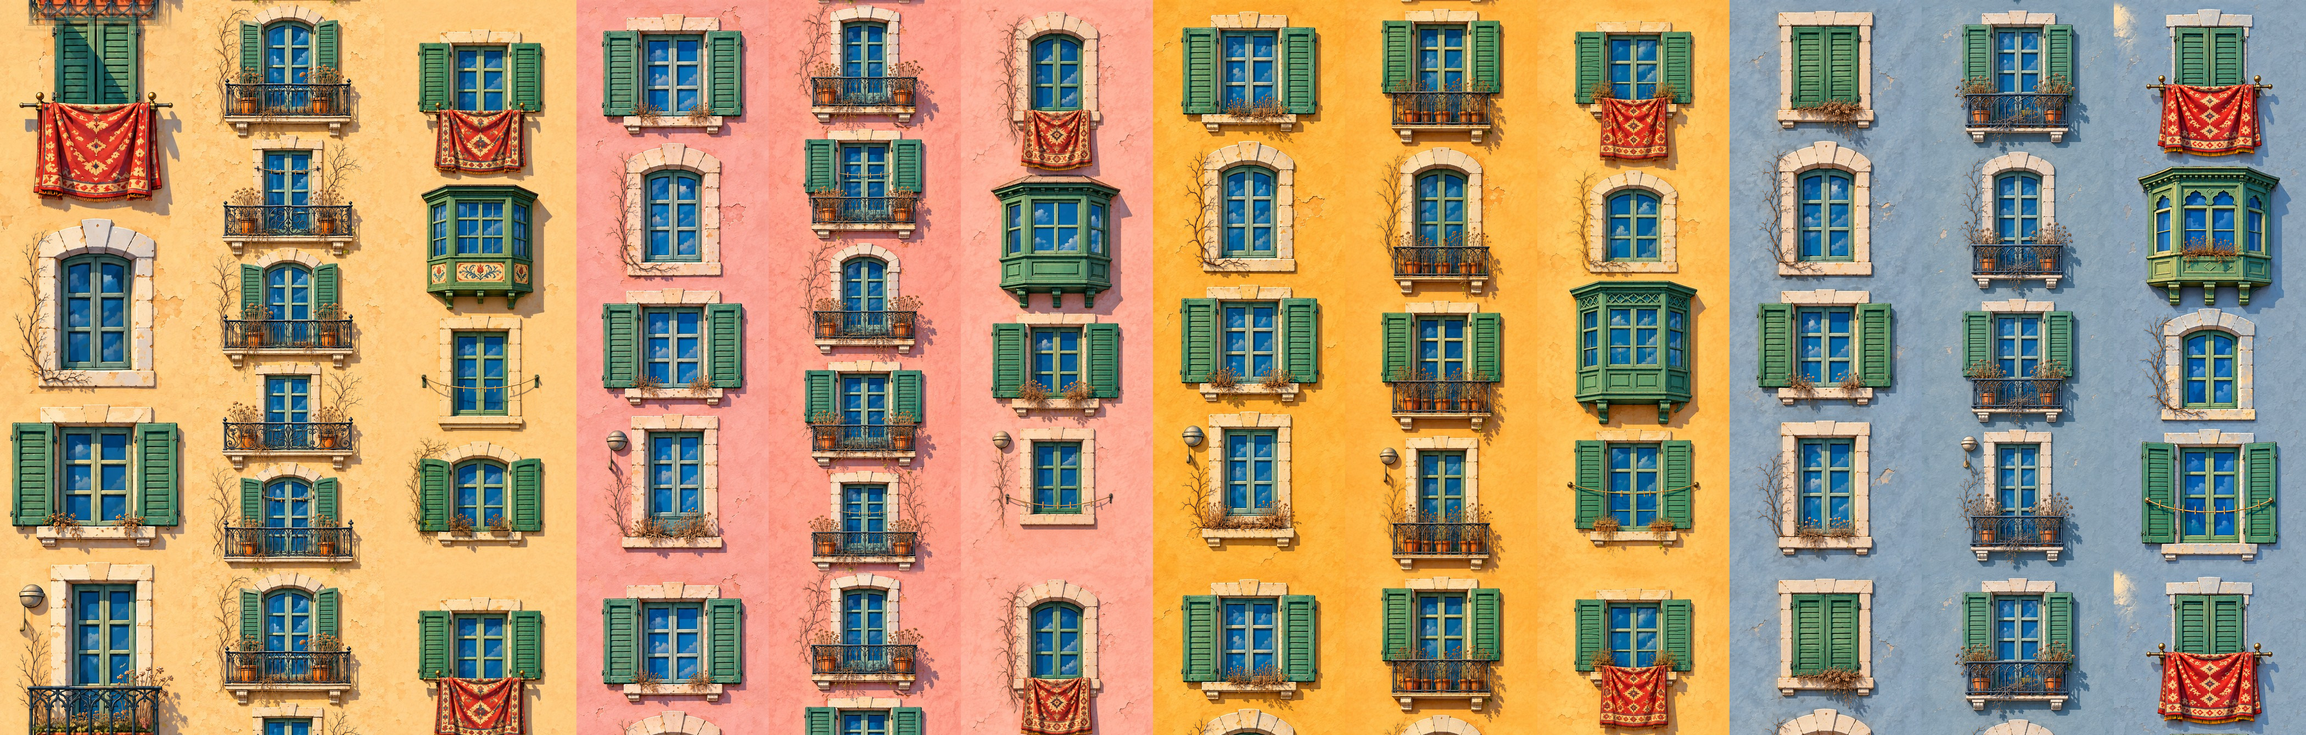
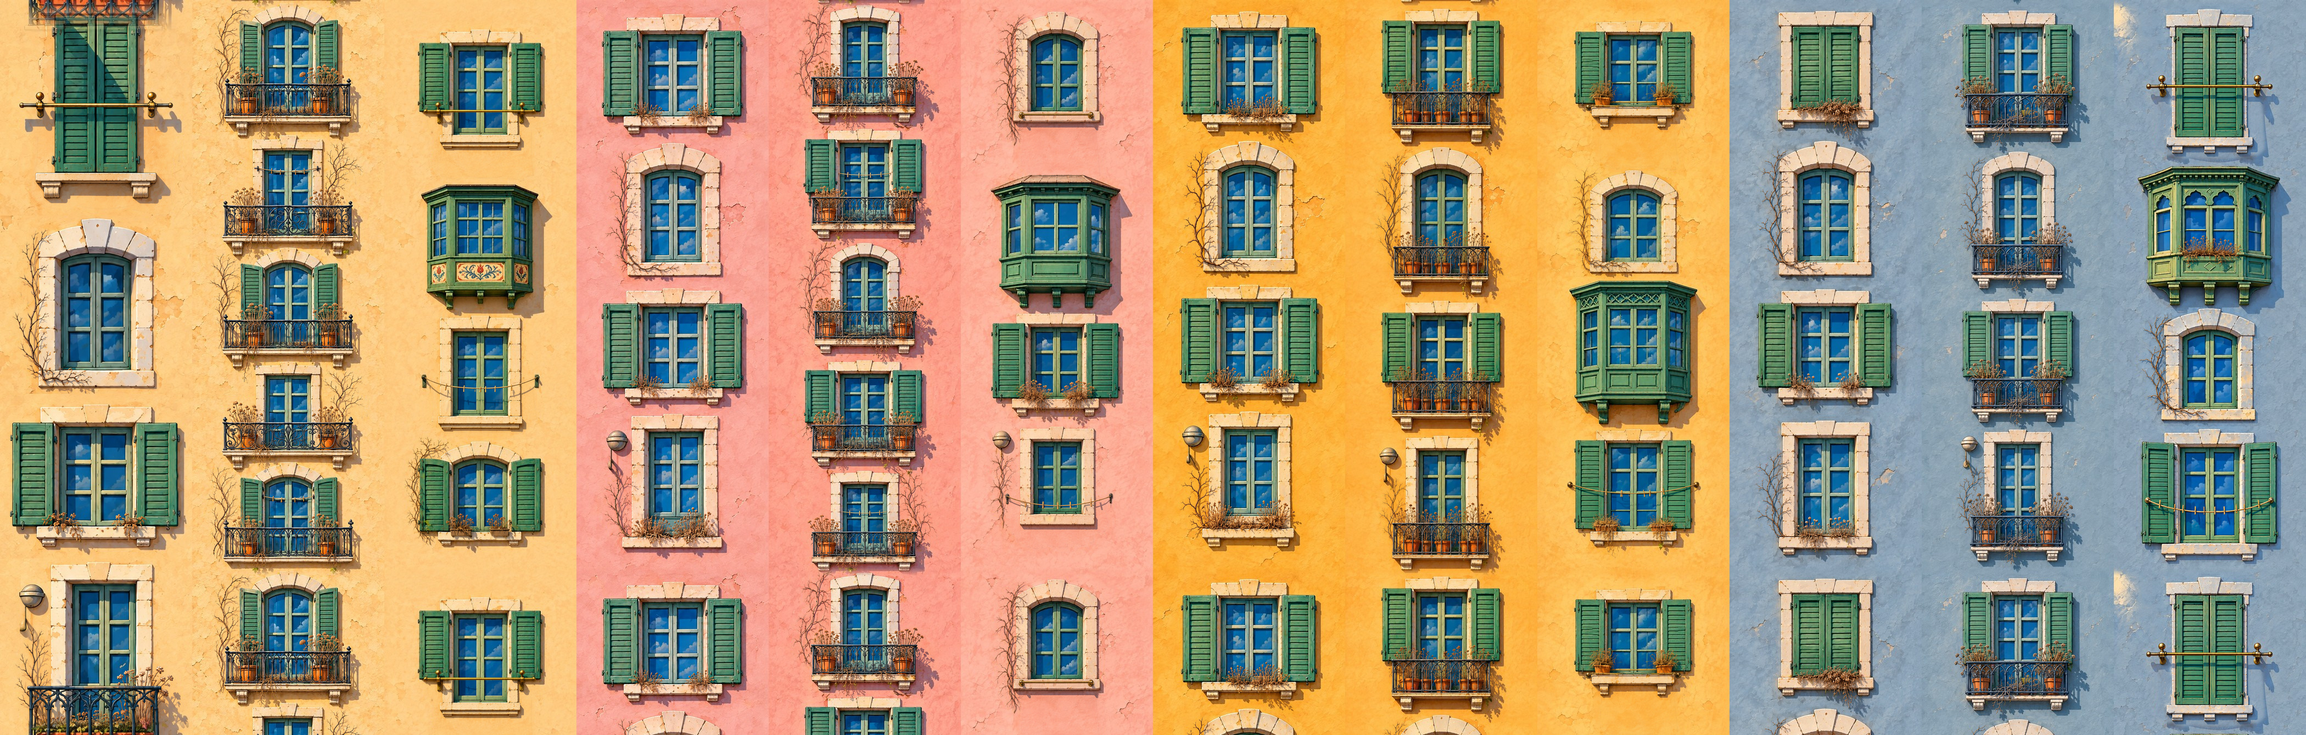
Tutarlılık: karda/yağmurda/kışta kilim yok, arka planda kedi-kilim-çamaşır yok, üşüyen kedi titrer

diff --git a/frontend/app/index.tsx b/frontend/app/index.tsx
@@ -383,7 +383,7 @@ const AnimatedImage = Animated.createAnimatedComponent(Image);
 const BG_SCROLL_TEST = true as boolean;
 const BG_SCROLL_RATIO = 0.45;
 const BG_SCROLL_TILES = 4;
-const BUILD_TAG = PERF_PROBE ? "" : HOUSE_ROOF_MASK_DIAG ? "R069-B: MASKE KAPALI (cati koseleri GECICI bozuk, olcum)" : GORUNUM_REV ? (TEST_START_TOWER > 0 ? `DENEME (${TEST_START_TOWER}. KULEDEN)` : PIJAMA_TEST_EARLY ? "PIJAMA DENEME (15. KULE)" : "CEPHE CESIDI") : DAILY_MAP ? "DURAK v2 + GUNUN HARITASI v1" : DURAK_SEFER ? "DURAK SEFERI v2 (15 KULE)" : FAZ2_IFADE ? "FAZ2 IFADE + HALE + GAZ" : FAZ2_HALO ? "FAZ2 HALE + GAZ" : FART_TRIAL ? "GAZ DENEME v3 GERCEK SES + FAZ2" : FAZ2_DUST || FAZ2_SQUASH || CHAR_SIZE_TRIAL !== 1 ? `FAZ2 ${SFX_ON ? "SES + " : ""}TOZ+ESNEME, KARAKTER x${CHAR_SIZE_TRIAL}` : FAZ1_UI ? "FAZ1 TR ARAYUZ + G018 KONTUR" : KONTUR_PARILTI ? (HEDEF_PARILTI ? "G018 KONTUR + PARILTI" : "G018 KONTUR") : FACADE_ATLAS ? "G018 12 CEPHE + R077" : GORSEL018_TRIAL ? "G018 DENEME + R077" : BG_SCROLL_TEST ? "R077: ARKA PLAN KAYAR" : NO_IMAGE_CLIP ? "R076: GORSEL KIRPMA YOK + SYNC PROPS" : ROUNDED_CLIP_OFF ? "R071-A: KOSE KIRPMA YOK" : FRAME_DIAG ? "R068-DIAG" : "R067-B: SAYAC KAPALI";
+const BUILD_TAG = PERF_PROBE ? "" : HOUSE_ROOF_MASK_DIAG ? "R069-B: MASKE KAPALI (cati koseleri GECICI bozuk, olcum)" : GORUNUM_REV ? (TEST_START_TOWER > 0 ? `DENEME (${TEST_START_TOWER}. KULEDEN)` : PIJAMA_TEST_EARLY ? "PIJAMA DENEME (15. KULE)" : "TUTARLILIK") : DAILY_MAP ? "DURAK v2 + GUNUN HARITASI v1" : DURAK_SEFER ? "DURAK SEFERI v2 (15 KULE)" : FAZ2_IFADE ? "FAZ2 IFADE + HALE + GAZ" : FAZ2_HALO ? "FAZ2 HALE + GAZ" : FART_TRIAL ? "GAZ DENEME v3 GERCEK SES + FAZ2" : FAZ2_DUST || FAZ2_SQUASH || CHAR_SIZE_TRIAL !== 1 ? `FAZ2 ${SFX_ON ? "SES + " : ""}TOZ+ESNEME, KARAKTER x${CHAR_SIZE_TRIAL}` : FAZ1_UI ? "FAZ1 TR ARAYUZ + G018 KONTUR" : KONTUR_PARILTI ? (HEDEF_PARILTI ? "G018 KONTUR + PARILTI" : "G018 KONTUR") : FACADE_ATLAS ? "G018 12 CEPHE + R077" : GORSEL018_TRIAL ? "G018 DENEME + R077" : BG_SCROLL_TEST ? "R077: ARKA PLAN KAYAR" : NO_IMAGE_CLIP ? "R076: GORSEL KIRPMA YOK + SYNC PROPS" : ROUNDED_CLIP_OFF ? "R071-A: KOSE KIRPMA YOK" : FRAME_DIAG ? "R068-DIAG" : "R067-B: SAYAC KAPALI";
 const DIAG_MAX_EXAMPLES = 6;
 const HOUSE_AB_FROZEN = false as boolean;
 // REVIZYON-066 experiment (one variable): expo-linear-gradient's iOS layer
@@ -463,6 +463,8 @@ const BG_VARIANTS = {
   kar: { m: require("@/assets/environment/mevsim/master-kar.jpg"), a: require("@/assets/environment/mevsim/alt-kar.jpg") },
   sonbahar: { m: require("@/assets/environment/mevsim/master-sonbahar.jpg"), a: require("@/assets/environment/mevsim/alt-sonbahar.jpg") },
   kis: { m: require("@/assets/environment/mevsim/master-kis.jpg"), a: require("@/assets/environment/mevsim/alt-kis.jpg") },
+  // TUTARLILIK (2026-11-24): yağmurda çatıdaki kilim, üstündeki kedi ve çamaşırlar yok (Kıvılcım temiz arka plan).
+  yagmur: { m: require("@/assets/environment/mevsim/master-temiz.jpg"), a: require("@/assets/environment/mevsim/alt-temiz.jpg") },
 } as const;
 const BG_LOW_SIL_H = 748;
 // REVIZYON-023: start decoding every first-scene bitmap at module load (before
@@ -1521,7 +1523,7 @@ export default function Game() {
   const roofWx: "kar" | "yagmur" | null = !ISTANBUL_ON ? null : shownWeather?.kind === "kar" ? "kar" : shownWeather?.kind === "yagmur" ? "yagmur" : null;
   // Kış yağmurunda yaz bitkisi olmasın: yağmur + kış -> kış cephesi (zaten çamaşırsız).
   const cepheHal: CepheHal = !ISTANBUL_ON ? null : roofWx === "kar" ? "kar" : roofWx === "yagmur" ? (season === "kis" ? "kis" : "yagmur") : season === "kis" ? "kis" : season === "sonbahar" ? "sonbahar" : null;
-  const bgVariant: keyof typeof BG_VARIANTS | null = !ISTANBUL_ON ? null : roofWx === "kar" ? "kar" : season === "sonbahar" ? "sonbahar" : season === "kis" ? "kis" : null;
+  const bgVariant: keyof typeof BG_VARIANTS | null = !ISTANBUL_ON ? null : roofWx === "kar" ? "kar" : season === "kis" ? "kis" : roofWx === "yagmur" ? "yagmur" : season === "sonbahar" ? "sonbahar" : null;
   // Gece (gerçek saat ya da gece durakları): skor koyu gökte okunsun diye açık renk.
   const nightHud = ISTANBUL_ON && (isNightNow || (DURAK_SEFER && stopsPassed(lastTowerRef.current) >= NIGHT_STOP));
   // Günün ilk koşusunda bir satır İstanbul havası; pil azsa (oturumda bir kez) amcanın şarj şakası öncelikli.
@@ -2514,6 +2516,19 @@ export default function Game() {
   }, []);
   const snowingNow = KIS_ON && ISTANBUL_ON && shownWeather?.kind === "kar";
   const coldNow = KIS_ON && (season === "kis" || snowingNow);
+  // KEDİ ÜŞÜYOR (2026-11-24, kullanıcı: "kediler ile ilgili işler yapılmamış ... tutarsızlıklar olmasın"): kış
+  // görselinde fark az kaldı -> kar/karsız kışta kısa titreme nöbetleri ve burnundan nefes buharı (yalnız görsel).
+  const kediUsur = MAHALLE_ON && (roofWx === "kar" || (roofWx !== "yagmur" && cepheHal === "kis"));
+  const kediTitre = useSharedValue(0);
+  const kediNefes = useSharedValue(0);
+  useEffect(() => {
+    cancelAnimation(kediTitre); cancelAnimation(kediNefes);
+    kediTitre.value = 0; kediNefes.value = 0;
+    if (!kediUsur) return;
+    const t = (v: number) => withTiming(v, { duration: 60 });
+    kediTitre.value = withRepeat(withSequence(t(1), t(-1), t(1), t(-1), t(1), t(-1), t(0), withTiming(0, { duration: 1700 })), -1, false);
+    kediNefes.value = withRepeat(withSequence(withTiming(1, { duration: 1100, easing: Easing.out(Easing.quad) }), withTiming(0, { duration: 0 }), withTiming(0, { duration: 1500 })), -1, false);
+  }, [kediUsur]);
   useEffect(() => {
     if (!KIS_ON) return;
     snowingSV.value = snowingNow ? 1 : 0;
@@ -3701,7 +3716,7 @@ export default function Game() {
         )}
         {!USE_FIXED_PANEL_COURSE && POOL_IDX.map((i) => (POPUP
           ? <PopupHouseView key={`pu-house-${i}`} index={i} platforms={platforms} styles={styles} />
-          : <PlatformHouseView key={`house-${i}`} index={i} platforms={HOUSE_AB_FROZEN ? housePlatformsFrozen : platforms} styles={styles} probe={houseProbe} roofWx={roofWx} cepheHal={cepheHal} woken={MAHALLE_ON ? catWoken : undefined} look={MAHALLE_ON ? neighborLook : undefined} kTick={kTick} kGone={kGone} kAmcaX={kAmcaX} />
+          : <PlatformHouseView key={`house-${i}`} index={i} platforms={HOUSE_AB_FROZEN ? housePlatformsFrozen : platforms} styles={styles} probe={houseProbe} roofWx={roofWx} cepheHal={cepheHal} kediTitre={kediUsur ? kediTitre : undefined} kediNefes={kediUsur ? kediNefes : undefined} woken={MAHALLE_ON ? catWoken : undefined} look={MAHALLE_ON ? neighborLook : undefined} kTick={kTick} kGone={kGone} kAmcaX={kAmcaX} />
         ))}
         {KARGA_ON && kargaPoolStyles.map((st, j) => (
           <Animated.View key={`karga-ucan-${j}`} pointerEvents="none" style={[{ position: "absolute", left: 0, top: 0, width: MAHALLE_BOX, height: MAHALLE_BOX }, st]}>
@@ -4665,7 +4680,7 @@ function PierConfetti({ W, H, onDone }: { W: number; H: number; onDone: () => vo
   );
 }
 
-const PlatformHouseView = memo(function PlatformHouseView({ index, platforms, styles, probe, roofWx, cepheHal, woken, look, kTick, kGone, kAmcaX }: any) {
+const PlatformHouseView = memo(function PlatformHouseView({ index, platforms, styles, probe, roofWx, cepheHal, kediTitre, kediNefes, woken, look, kTick, kGone, kAmcaX }: any) {
   // REVIZYON-062: every updater passes its SharedValue's .value itself. Reanimated
   // only subscribes a mapper to SharedValues found directly in the updater's
   // closure (extractInputs does not look inside nested worklet functions), so
@@ -4811,7 +4826,8 @@ const PlatformHouseView = memo(function PlatformHouseView({ index, platforms, st
     if (want !== mode) return OFF;
     const b = kediBox(g, aspect, FART_CHAR_H, HOUSE_GUTTER_H, mode === 0 ? uyuyanFoot : KEDI_DIK_FOOT);
     if (b.w <= 0) return OFF;
-    return { opacity: 1, transform: [{ translateX: b.left + b.w / 2 - MAHALLE_BOX / 2 }, { translateY: b.top + b.h / 2 - (MAHALLE_BOX * aspect) / 2 }, { scale: b.w / MAHALLE_BOX }] };
+    const titre = kediTitre ? kediTitre.value * 0.9 : 0;
+    return { opacity: 1, transform: [{ translateX: b.left + b.w / 2 - MAHALLE_BOX / 2 + titre }, { translateY: b.top + b.h / 2 - (MAHALLE_BOX * aspect) / 2 }, { scale: b.w / MAHALLE_BOX }] };
   });
   // CUMBA: cumba + teyze (normalde halı silker; amca bu kuleye inince bakar). Aynı kutu, teyze tuvali daha uzun.
   const cumbaLayer = (mode: number, aspect: number) => useAnimatedStyle(() => {
@@ -4832,6 +4848,10 @@ const PlatformHouseView = memo(function PlatformHouseView({ index, platforms, st
   const kediCumbaStyle = cumbaLayer(3, CUMBA_ASPECT); // kedili kulede aynı cumba (kedi pervazında)
   const amcaStyle = winStyle(3, AMCA_ASPECT);
   const cocukStyle = winStyle(4, COCUK_ASPECT);
+  const nefesStyle = useAnimatedStyle(() => {
+    const n = kediNefes ? kediNefes.value : 0;
+    return { opacity: n > 0.02 ? (1 - n) * 0.75 : 0, transform: [{ translateX: -9 * n }, { translateY: -5 * n }, { scale: 0.5 + 0.9 * n }] };
+  });
   const kediStyle = catStyle(0, KEDI_ASPECT);
   const kediGerStyle = catStyle(1, KEDI_GERINEN_ASPECT);
   const kediGriStyle = catStyle(2, KEDI_GRI_ASPECT);
@@ -4949,12 +4969,15 @@ const PlatformHouseView = memo(function PlatformHouseView({ index, platforms, st
         <>
           <Animated.View style={[{ position: "absolute", left: 0, top: 0, width: MAHALLE_BOX, height: MAHALLE_BOX * KEDI_ASPECT }, kediStyle]}>
             <Image source={mk.kedi} style={styles.houseFill} resizeMode="stretch" fadeDuration={0} />
+            {kediNefes ? <Animated.View pointerEvents="none" style={[{ position: "absolute", left: MAHALLE_BOX * 0.39 - 7, top: MAHALLE_BOX * KEDI_ASPECT * 0.74 - 4, width: 9, height: 6, borderRadius: 4, backgroundColor: "rgba(255,255,255,0.95)" }, nefesStyle]} /> : null}
           </Animated.View>
           <Animated.View style={[{ position: "absolute", left: 0, top: 0, width: MAHALLE_BOX, height: MAHALLE_BOX * KEDI_GERINEN_ASPECT }, kediGerStyle]}>
             <Image source={mk.kediGerinen} style={styles.houseFill} resizeMode="stretch" fadeDuration={0} />
+            {kediNefes ? <Animated.View pointerEvents="none" style={[{ position: "absolute", left: MAHALLE_BOX * 0.26 - 7, top: MAHALLE_BOX * KEDI_GERINEN_ASPECT * 0.7 - 4, width: 9, height: 6, borderRadius: 4, backgroundColor: "rgba(255,255,255,0.95)" }, nefesStyle]} /> : null}
           </Animated.View>
           <Animated.View style={[{ position: "absolute", left: 0, top: 0, width: MAHALLE_BOX, height: MAHALLE_BOX * KEDI_GRI_ASPECT }, kediGriStyle]}>
             <Image source={mk.kediGri} style={styles.houseFill} resizeMode="stretch" fadeDuration={0} />
+            {kediNefes ? <Animated.View pointerEvents="none" style={[{ position: "absolute", left: MAHALLE_BOX * 0.44 - 7, top: MAHALLE_BOX * KEDI_GRI_ASPECT * 0.7 - 4, width: 9, height: 6, borderRadius: 4, backgroundColor: "rgba(255,255,255,0.95)" }, nefesStyle]} /> : null}
           </Animated.View>
         </>
       )}

diff --git a/frontend/scripts/mevsim-arkaplan.py b/frontend/scripts/mevsim-arkaplan.py
@@ -4,7 +4,11 @@
 # sarı-turuncu), kış (yeşiller solgun, genel soğuk/soluk). Kullanım: python3 scripts/mevsim-arkaplan.py
 import numpy as np
 from PIL import Image, ImageFilter
-SRC = ["assets/environment/bosphorus-rooftop-day-master-v1.png", "assets/environment/bosphorus-low-silhouette.jpg"]
+import sys
+# TUTARLILIK (2026-11-24): kar/kış/yağmur, kedi-kilim-çamaşırı kaldırılmış "temiz" kaynaktan türetilir
+# (Kıvılcım master-temiz + alt-temiz). Sonbahar özgün kaynaktan. Kullanım: önce düz, sonra --temiz ile çalıştır.
+TEMIZ = "--temiz" in sys.argv
+SRC = ["assets/environment/mevsim/master-temiz.jpg", "assets/environment/mevsim/alt-temiz.jpg"] if TEMIZ else ["assets/environment/bosphorus-rooftop-day-master-v1.png", "assets/environment/bosphorus-low-silhouette.jpg"]
 NAMES = ["master", "alt"]
 
 def hsv(a):
@@ -41,7 +45,8 @@ for src, name in zip(SRC, NAMES):
     gray = k.mean(-1, keepdims=True)
     k = k * 0.78 + gray * 0.22                                          # genel soğuk/gri hava
     k = lerp(k, np.broadcast_to(np.array([0.72, 0.78, 0.86], np.float32), k.shape), (blue * 0.25).astype(np.float32))
-    Image.fromarray((np.clip(k, 0, 1) * 255).astype(np.uint8)).save(f"assets/environment/mevsim/{name}-kar.jpg", quality=88)
+    if TEMIZ:
+        Image.fromarray((np.clip(k, 0, 1) * 255).astype(np.uint8)).save(f"assets/environment/mevsim/{name}-kar.jpg", quality=88)
 
     # SONBAHAR: yeşiller sarı-turuncu-kızıl karışımına
     f = a.copy()
@@ -49,7 +54,8 @@ for src, name in zip(SRC, NAMES):
     autumn = np.stack([0.80 + 0.15 * rnd, 0.42 + 0.25 * rnd, 0.12 + 0.05 * rnd], -1).astype(np.float32)
     shade = (v / 0.75).clip(0.35, 1.15)[..., None]
     f = lerp(f, np.clip(autumn * shade, 0, 1), (green * 0.85).astype(np.float32))
-    Image.fromarray((np.clip(f, 0, 1) * 255).astype(np.uint8)).save(f"assets/environment/mevsim/{name}-sonbahar.jpg", quality=88)
+    if not TEMIZ:
+        Image.fromarray((np.clip(f, 0, 1) * 255).astype(np.uint8)).save(f"assets/environment/mevsim/{name}-sonbahar.jpg", quality=88)
 
     # KIŞ (karsız): yeşiller solgun kahve-gri, genel soğuk ve soluk
     w = a.copy()
@@ -58,5 +64,6 @@ for src, name in zip(SRC, NAMES):
     g2 = w.mean(-1, keepdims=True)
     w = w * 0.8 + g2 * 0.2
     w = lerp(w, np.broadcast_to(np.array([0.78, 0.84, 0.92], np.float32), w.shape), np.full(a.shape[:2], 0.08, np.float32))
-    Image.fromarray((np.clip(w, 0, 1) * 255).astype(np.uint8)).save(f"assets/environment/mevsim/{name}-kis.jpg", quality=88)
+    if TEMIZ:
+        Image.fromarray((np.clip(w, 0, 1) * 255).astype(np.uint8)).save(f"assets/environment/mevsim/{name}-kis.jpg", quality=88)
 print("ok")

diff --git a/frontend/scripts/cephe-kilim.py b/frontend/scripts/cephe-kilim.py
@@ -14,7 +14,8 @@ from PIL import Image
 from scipy import ndimage as nd
 
 G = "assets/environment/district/house/g018/"
-HALLER = ["", "-kar", "-yagmur", "-kis", "-sonbahar"]
+# Kilim yalnız yaz ve sonbaharda asılı (TUTARLILIK 2026-11-24: kar/yağmur/kışta kilimsiz hücreler kullanılır).
+HALLER = ["", "-sonbahar"]
 CELL = 350
 # (desen no 1..6 ya da 0 = özgün kilim kalsın, zemin tonu derece ya da None = kırmızı kalsın, doygunluk çarpanı)
 PALET = [(0, None, 1.0), (1, 222, 0.9), (2, 42, 1.0), (3, 165, 0.85), (4, 30, 0.35), (5, 345, 1.0), (6, None, 1.0)]

diff --git a/frontend/CODEX-MESAJI-TUTARLILIK-2026-11-24.md b/frontend/CODEX-MESAJI-TUTARLILIK-2026-11-24.md
@@ -1,0 +1,23 @@
+Kıvılcım için — TUTARLILIK-2026-11-24: karda/yağmurda kilim, arka plandaki kedi-kilim-çamaşır (Byzantion)
+
+Kullanıcı onayı: "Evet, 16 çizim" (2026-11-24). Bu iş TAM 16 görsel üretim çağrısı; 17. (aşağıda C-5) kullanıcıya ayrıca sorulacak, YAPMA.
+Kullanıcının sözü: "hala kar yağarken dışarıda halı asılmış bunun gibi tutarsızlıklar olmasın", "kediler ile ilgili işler yapılmamış".
+
+Genel: önceki cephe işlerindeki yöntem (hücre bandı, kaymasız). Yalnız istenen nesneyi kaldır; geri kalan her piksel aynı kalsın; duvara leke/genel renk değişimi ekleme; beyaz kenar payı bırakma; kırpma/birleştirme yapma, ham çıktı yeter (hizalamayı Claude yapar).
+Çıktı klasörü: ~/Documents/Codex/2026-09-09/referenced-chatgpt-conversation-this-is-an/shared/TUTARLILIK-preview/
+
+## A) Arka plan — 2 çizim
+1. frontend/assets/environment/bosphorus-rooftop-day-master-v1.png (941×1672): alttaki çatı manzarasında çatıya serili KİLİM ve üstünde uyuyan KEDİ ile ÇAMAŞIR İPLERİ/çamaşırlar kaldırılsın; yerlerinde kiremit, duvar, pencere tamamlansın. Gök, deniz, şehir, diğer her şey aynı. Çıktı: master-temiz.png (941×1672).
+2. frontend/assets/environment/bosphorus-low-silhouette.jpg (941×748; üst yarısı aynalanmış bir kompozisyon): aynı şekilde iki kedi+kilim (sol üst ve sol alt) ve çamaşır ipleri (üst ve alt orta) kaldırılsın; geri kalan aynı. Çıktı: alt-temiz.png (941×748).
+
+## B) Kilimsiz cepheler, kar ve yağmur — 10 çizim
+Kaynak 12 hücrelik atlaslar: frontend/assets/environment/district/house/g018/facade-atlas-g018-kar.jpg ve facade-atlas-g018-yagmur.jpg. Kilimli hücreler: 0, 2, 5, 8, 11 (x = c×350 … +350; hücre 0'da y = 0 … 1340, diğerlerinde y = 0 … 1035).
+- Kilim kaldırılsın; pirinç SIRIK yerinde kalsın (karda sırığın üstünde ince kar), kilimin arkasındaki duvar/pencere/pervaz tamamlansın. Başka hiçbir şey değişmesin (karlı atlasta kar, yağmurlu atlasta mevcut görünüm aynen).
+- Çıktılar: kilimsiz-kar-hucre-00.png, -02, -05, -08, -11 ve kilimsiz-yagmur-hucre-00.png, -02, -05, -08, -11.
+
+## C) Kilimsiz cepheler, kar yağmayan kış — 4 çizim
+Kaynak: facade-atlas-g018-kis.jpg. Hücreler 0, 2, 5, 8 (aynı kurallar, karsız). Çıktılar: kilimsiz-kis-hucre-00.png, -02, -05, -08.
+(C-5: hücre 11 — kullanıcı onayı bekleniyor, ÇİZME.)
+
+## Teslim
+16 PNG + onizleme.png. Bitince tek satır: hangi çıktı hazır, hangisinde kilim/kedi/çamaşır kaldı ya da başka bir şey değişti. Oyun koduna dokunma.

diff --git a/frontend/AI_REVIEW.md b/frontend/AI_REVIEW.md
@@ -3134,3 +3134,13 @@ CHANGED:
 EVIDENCE (ai_review_evidence/MEVSIM-CEPHE-2026-11-24/): cephe-*-simdiki-kis-sonbahar.png, birlestirme-raporu.txt, sim-sonbahar-yagmur-kar.png (aynı yeni hücre üç havada).
 Testler: worklet sıra testi PASS, karga döngü testi PASS, tsc oyun kodunda hata yok.
 OPEN_ISSUES: Atlas 4200→8400 px: hava başına çözülmüş doku ~45 MB (önce ~22 MB); takılma için telefonda ölçülmedi. Uygulama boyutu +~25 MB (5 atlas). Sonbahar yağmurunda yaz bitkili yağmur atlası kullanılıyor. Kilimler yağmur/karda hâlâ asılı (kaldırmak ~10 çizim). Özgün 12 hücrenin FACADE_STARTS değerleri pencere ortasından geçiyor (oluk o satırdan başlıyor) — ayrı düzeltme. Android doğrulanmadı.
+
+## TUTARLILIK — karda/yağmurda kilim, arka plan kedisi, üşüyen kedi — 2026-11-24
+TASK: Kullanıcı videosu (14:38, kar): "kediler ile ilgili işler yapılmamış. hala kar yağarken dışarıda halı asılmış bunun gibi tutarsızlıklar olmasın" -> "Evet, 16 çizim" -> "Telefona kur ve gönder".
+CHANGED:
+- Cephe: kar/yağmur/kış 12'lik atlaslarında kilimli 5 hücre kilimsiz (Kıvılcım 15 çizim; 02/05/08'de sırık da kalkmış, duvar temiz). Kış hücre 11 çizilmedi (17. çağrı olurdu): kilim bölgesi aynı geometrideki kilimsiz yağmur hücresinden aktarıldı. 24'lük atlaslar cephe-cesit.py ile yeniden kuruldu (tablolar değişmedi); cephe-kilim.py artık yalnız yaz ve sonbahara desen uygular.
+- Arka plan: master-temiz.jpg (Kıvılcım) ve alt-temiz.jpg (Kıvılcım çıktısından yalnız kedi/kilim/çamaşır bölgeleri, σ=1.3 bulanıklıkla aktarıldı; aynalı kompozisyon korundu). mevsim-arkaplan.py --temiz ile kar/kış bunlardan türetildi; yeni BG_VARIANTS.yagmur = temiz. bgVariant: kar > kış > yağmur > sonbahar.
+- Kediler: karda ve karsız kışta kısa titreme nöbetleri (±0.9 px, 6×60 ms, 1.7 s ara) ve burundan nefes buharı (1.1 s); burun konumları sprite üzerinde ölçüldü.
+- Denetim listesi: ai_review_evidence/TUTARLILIK-2026-11-24/DENETIM-LISTESI.md.
+EVIDENCE: worklet sıra testi PASS, karga döngü testi PASS, tsc oyun kodunda hata yok. Simülatörde görülmedi (kullanıcı doğrudan telefona kurulum istedi).
+OPEN_ISSUES: Sonbahar yağmurunda cephe bitkileri yaz hâli. Titreme/nefes cihazda görülmedi. Android doğrulanmadı.

diff --git a/frontend/ai_review_evidence/TUTARLILIK-2026-11-24/DENETIM-LISTESI.md b/frontend/ai_review_evidence/TUTARLILIK-2026-11-24/DENETIM-LISTESI.md
@@ -1,0 +1,23 @@
+# Hava/mevsim tutarlılık denetim listesi (2026-11-24)
+
+Kullanıcı: "hala kar yağarken dışarıda halı asılmış bunun gibi tutarsızlıklar olmasın". Her teslimden önce bu tablo
+simülatörde (kar ve yağmur testi + bugünkü mevsim) madde madde işaretlenir.
+
+Hâller: YAZ (ilkbahar/yaz, kuru) · SONBAHAR (kuru) · KIŞ (kar yok) · YAĞMUR (yaz/sonbahar) · YAĞMUR+KIŞ · KAR
+
+| Öğe | YAZ | SONBAHAR | KIŞ | YAĞMUR | YAĞMUR+KIŞ | KAR |
+|---|---|---|---|---|---|---|
+| Cephe bitkileri | yeşil, çiçekli | sarı-turuncu, krizantem | çıplak dal, kuru sap | yaz bitkisi (ıslak) | çıplak dal | çıplak dal + kar |
+| Çamaşır | asılı | asılı | yok (boş ip) | yok | yok | yok (ipte kar) |
+| Cephe kilimi | asılı (6 desen) | asılı (6 desen) | yok (sırık) | yok | yok | yok |
+| Panjur rengi | yeşil/mavi/ceviz/bordo | aynı | aynı | aynı | aynı | aynı |
+| Çatı | kiremit | kiremit | kiremit | ıslak kiremit | ıslak kiremit | kar örtüsü + saçak buzu |
+| Cumba teyzesi | halı silker | halı silker | şal + çay | şal + çay | şal + çay | şal + çay |
+| Kediler (kule) | uyuyan/gerinen | uyuyan/gerinen | üşüyen + titreme + nefes buharı | ıslak | ıslak | üşüyen + titreme + nefes |
+| Arka plan çatısındaki kedi/kilim/çamaşır | var | var | yok | yok | yok | yok |
+| Arka plan bitkileri | yeşil | sarı-turuncu | solgun | yeşil (temiz) | solgun | karlı |
+| Amca kıyafeti | eşofman | eşofman | bere + atkı | yağmurluk + kasket | yağmurluk + kasket | bere + atkı |
+| Düşüş pozu | normal | normal | kış | yağmur | yağmur | kış |
+
+Bilinen boşluk: SONBAHAR+YAĞMUR'da cephe bitkileri yaz hâli (sonbahar çamaşırsız/kilimsiz atlası yok).
+Eski pencere komşuları (amca, çocuk) ESKI_KOMSULAR_ON=false ile kapalı; serin hâlleri hazır.

diff --git a/frontend/GAME_STUDIO.md b/frontend/GAME_STUDIO.md
@@ -2051,3 +2051,4 @@ TESLIM_HAZIR: AMCA-DUSUS-DIGER-2026-11-23 — pijama ve özel gün aksesuarları
 TESLIM_HAZIR: KAR-CEPHE-2026-11-24 — kar yağan günde kış cephesi (yapraksız dallar, kuru saplar, kar), assets/.../facade-atlas-g018-kar.jpg, kanıt ai_review_evidence/KAR-CEPHE-2026-11-24/; kullanıcı atlası kabul etti, telefon videosu bekleniyor.
 TESLIM_HAZIR: MEVSIM-MAHALLE-2026-11-24 — yağmur ve karda çamaşırsız cephe, şallı çaylı teyze, kazaklı/bereli komşular, üşüyen/ıslak kediler; kanıt ai_review_evidence/MEVSIM-MAHALLE-2026-11-24/; ikinci aşama (karsız kış, sonbahar) kullanıcı kararı bekliyor.
 TESLIM_HAZIR: CEPHE-CESIDI-2026-11-24 — kış/sonbahar cepheleri + 24 hücre (kat karışımı, panjur rengi, kilim deseni); kanıt ai_review_evidence/MEVSIM-CEPHE-2026-11-24/; yağmur/kar kilimleri ve FACADE_STARTS düzeltmesi kullanıcı kararı bekliyor.
+TESLIM_HAZIR: TUTARLILIK-2026-11-24 — kar/yağmur/kışta kilimsiz cepheler, temiz arka plan (kedi/kilim/çamaşır yok), üşüyen kedide titreme ve nefes; denetim listesi ai_review_evidence/TUTARLILIK-2026-11-24/DENETIM-LISTESI.md; telefon videosu bekleniyor.
